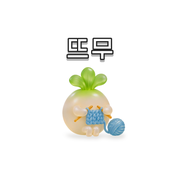
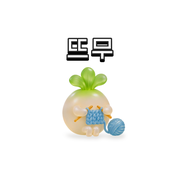
뜨무 드롭섀도우 100% 블랙

Changed region(s): [[0.3611, 0.2778, 0.6389, 0.3611], [0.3889, 0.2222, 0.5, 0.25], [0.5278, 0.2222, 0.6111, 0.25]]

diff --git a/index.html b/index.html
@@ -353,7 +353,7 @@ button.chip:hover { color: var(--ink) }
 </style>
 
 <div id="splash" aria-hidden="true">
[2 lines of base64/hex data omitted]
   <div class="splash-name">뜨무로그</div>
 </div>
 <header class="top">

diff --git a/sw.js b/sw.js
@@ -1,4 +1,4 @@
-const CACHE = 'hankoh-964d245d17';
+const CACHE = 'hankoh-c42ae88872';
 const SHELL = ['./', './index.html', './manifest.webmanifest', './icon-180.png', './icon-192.png', './icon-512.png'];
 self.addEventListener('install', e => {
   e.waitUntil(caches.open(CACHE).then(c => c.addAll(SHELL)).then(() => self.skipWaiting()));
